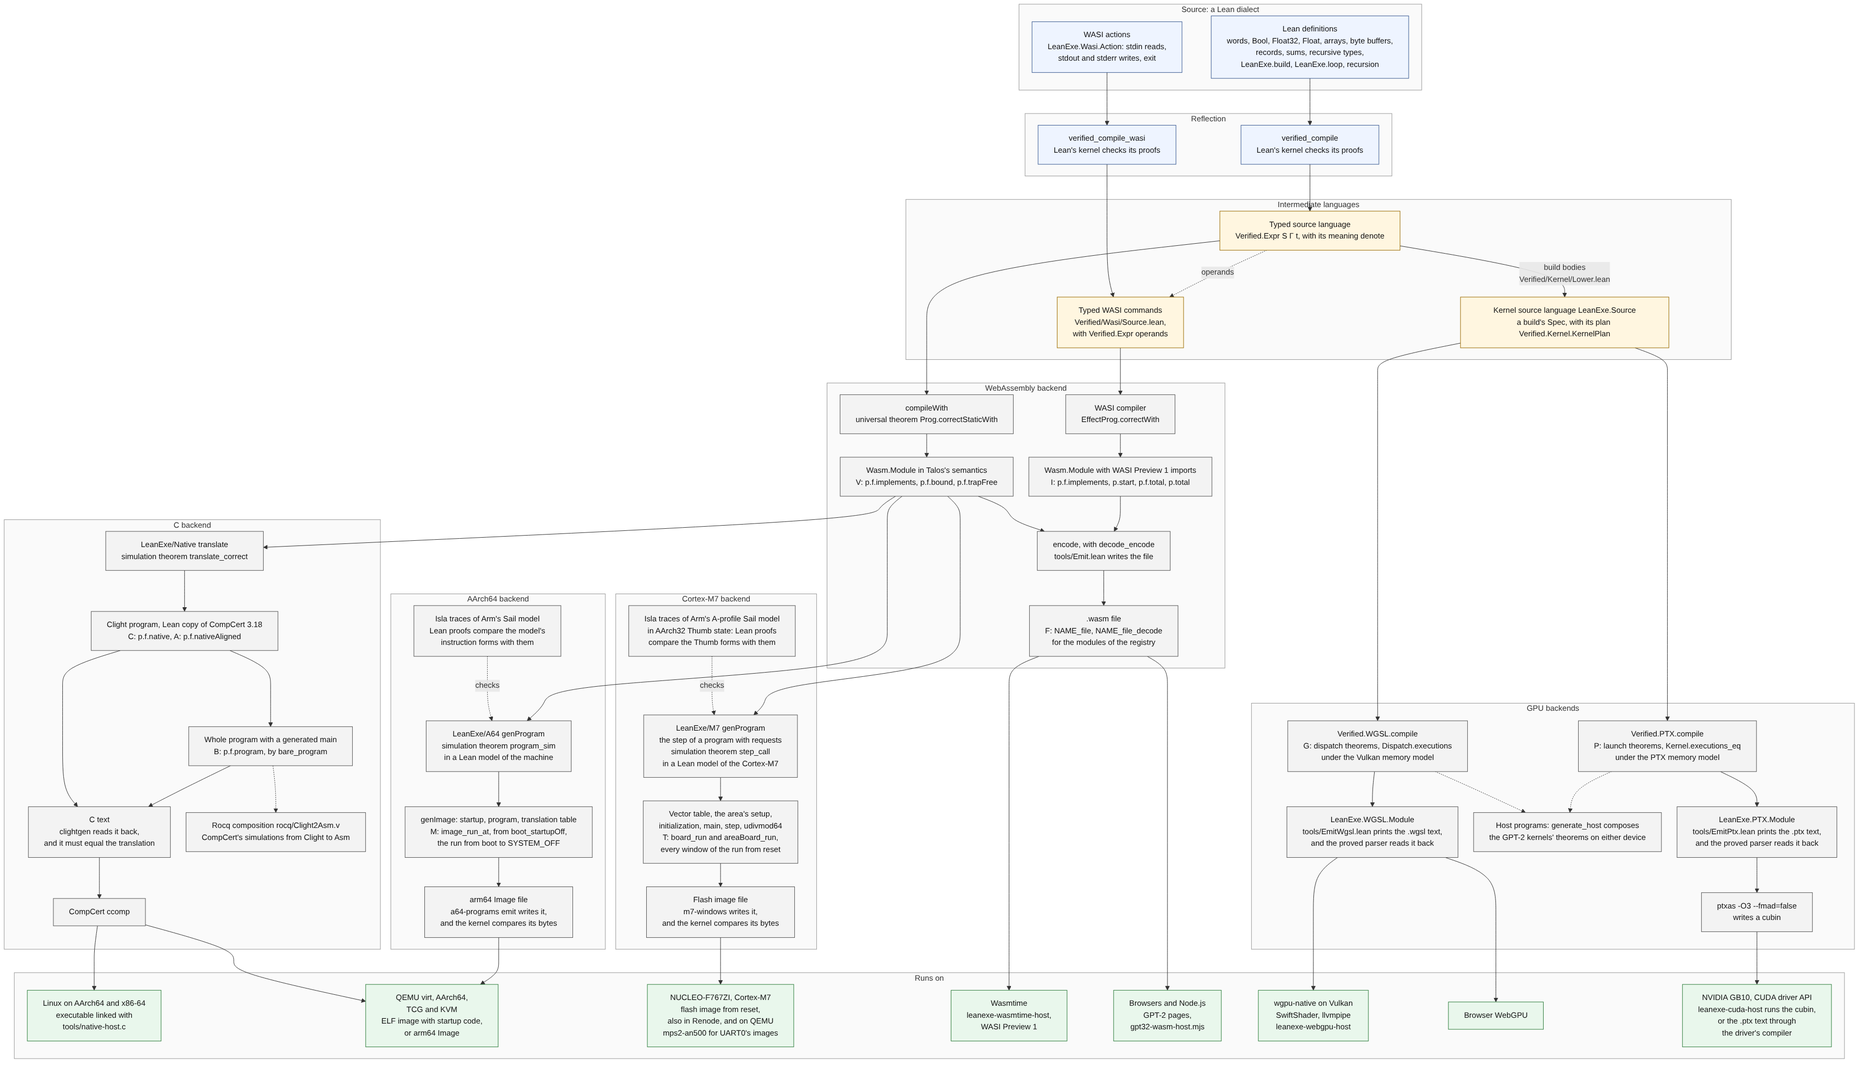
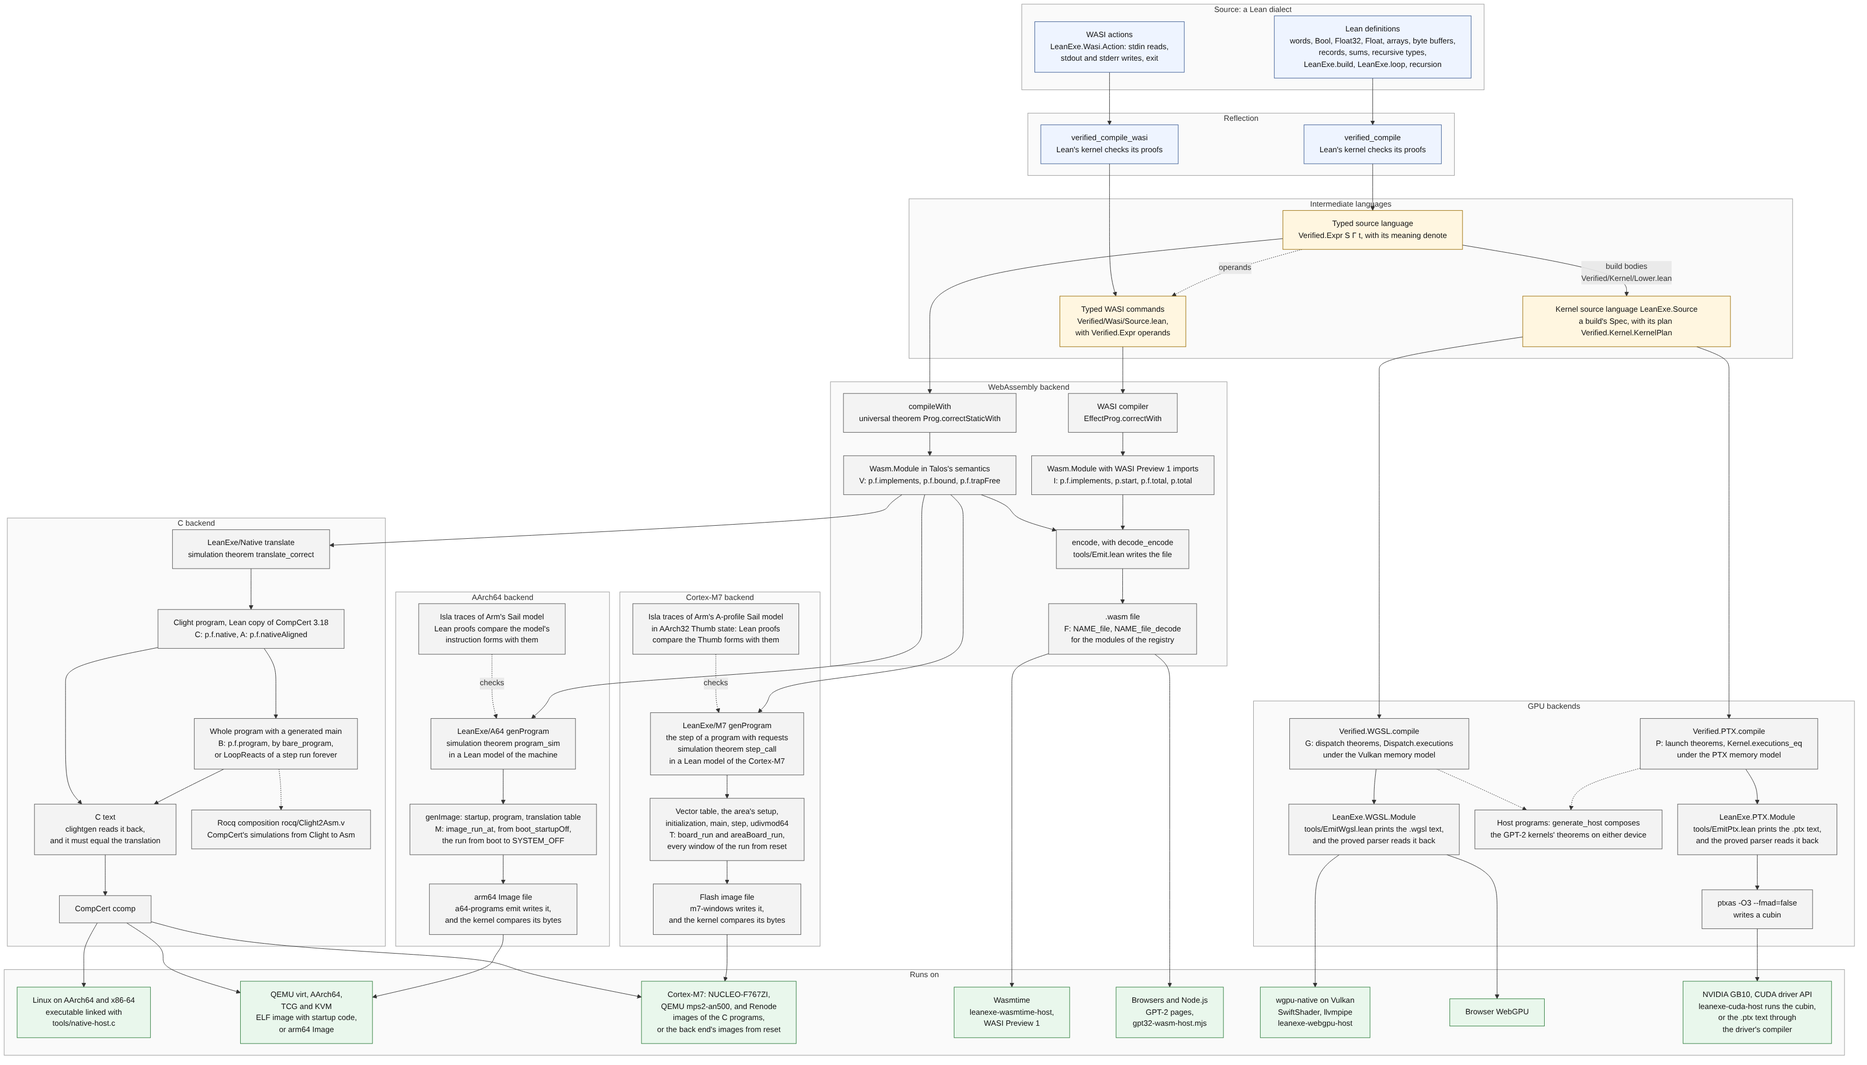
Cover the C path's Cortex-M7 programs and SHA-256 forms

diff --git a/README.md b/README.md
@@ -6,7 +6,7 @@ LeanExe compiles functions written in a restricted dialect of Lean to WebAssembl
 
 `verified_compile` reflects a Lean definition into a typed intermediate language, and each backend produces code together with a theorem that the code computes the definition's result.  The theorems hold in Talos's WebAssembly semantics, in the Lean copy of CompCert's Clight, in a Lean model of an AArch64 machine from boot, in a Lean model of a Cortex-M7 from reset, and under statements of the Vulkan and PTX memory models, and a Rocq proof carries the theorem of a bare-metal C program to CompCert's Asm.  The letters are the artifact codes of [the table below](#artifacts), and [the overview](#overview) shows the full toolchain.
 
-The compiler has one correctness theorem for every typed source program that it accepts.  The WebAssembly theorems hold in [Talos](https://github.com/cajal-technologies/talos)'s semantics, and an execution theorem may allow a trap at `unreachable`, which the theorem `p.f.trapFree` excludes under its allocation and call-depth premises.  The compiled modules also translate to a subset of [CompCert](https://compcert.org/compcert-C.html)'s C, with a theorem about each C function in the Lean copy of CompCert's Clight, and CompCert compiles the C for x86-64 and AArch64, under an operating system or on bare-metal AArch64.  A bare-metal C program has a theorem about the whole program, which a Rocq proof transfers to CompCert's Asm, and an executable under an operating system also depends on a C host that no theorem covers.  A separate back end compiles the same modules to AArch64 machine code without C and writes an arm64 Image whose theorem covers the whole run from boot, the startup included, in a Lean model of the machine, and Lean proofs compare the model's instruction forms with traces of Arm's specification from Isla, with the results of Arm's floating-point functions taken as equations with Talos's IEEE 754 functions.  Another back end without C compiles the step functions of programs with requests to Thumb-2 machine code for the NUCLEO-F767ZI board and writes a flash image whose theorem covers every window of the run from reset in a Lean model of the Cortex-M7.  Array builds compile to WGSL and PTX kernels with theorems under statements of the Vulkan and PTX memory models, and Lean actions with stdin, stdout, stderr, and exit compile to WASI Preview 1 modules.
+The compiler has one correctness theorem for every typed source program that it accepts.  The WebAssembly theorems hold in [Talos](https://github.com/cajal-technologies/talos)'s semantics, and an execution theorem may allow a trap at `unreachable`, which the theorem `p.f.trapFree` excludes under its allocation and call-depth premises.  The compiled modules also translate to a subset of [CompCert](https://compcert.org/compcert-C.html)'s C, with a theorem about each C function in the Lean copy of CompCert's Clight, and CompCert compiles the C for x86-64 and AArch64 under an operating system, for bare-metal AArch64, and for the Cortex-M7 of QEMU's `mps2-an500` and of the NUCLEO-F767ZI board.  A bare-metal C program has a theorem about the whole program, which a Rocq proof transfers to CompCert's Asm: a termination with the result's bytes or a trap's status, or a loop that runs a step function forever with a stated trace in each window, the form of every Cortex-M7 program with a theorem.  An executable under an operating system also depends on a C host that no theorem covers.  A separate back end compiles the same modules to AArch64 machine code without C and writes an arm64 Image whose theorem covers the whole run from boot, the startup included, in a Lean model of the machine, and Lean proofs compare the model's instruction forms with traces of Arm's specification from Isla, with the results of Arm's floating-point functions taken as equations with Talos's IEEE 754 functions.  Another back end without C compiles the step functions of programs with requests to Thumb-2 machine code for the NUCLEO-F767ZI board and writes a flash image whose theorem covers every window of the run from reset in a Lean model of the Cortex-M7.  Array builds compile to WGSL and PTX kernels with theorems under statements of the Vulkan and PTX memory models, and Lean actions with stdin, stdout, stderr, and exit compile to WASI Preview 1 modules.
 
 ## Background
 
@@ -45,7 +45,7 @@ Here are some of the demos in this repo:
 - [Running sums](Demos/RunningSum/README.md): WASI programs that read numbers from stdin and print cumulative totals, with proofs of canonical output and eventual exit.  [The binary64 version](Demos/RunningSumFp/README.md) composes proved parsing, IEEE 754 addition, and printing.
 - [Energy authorizer](Demos/Energy/README.md): decides whether a gateway may send proposed battery power limits to the inverter of a solar-and-battery site for one window of time.  `authorize_sound` proves that, under accepted limits, every trajectory that the model admits keeps the site's energy and grid limits or stays no further outside them than a return to the inverter's fallback mode would, and `energy_authorize` transfers the decision to the module's bytes.  Its gateway [ran a simulated day on a NUCLEO-F767ZI board](Demos/Energy/README.md#a-day-on-a-nucleo-f767zi), through CompCert and through [the Cortex-M7 back end](docs/m7-bare-metal.md), whose image has a theorem from reset, with output records equal to native Lean's in both runs.
 - [Order book](Demos/OrderBook/README.md): a central limit order book for one instrument, with price-time matching of limit, market, post-only, cancel, and reduce commands and self-trade prevention.  `run_eq` proves that the array program computes the list specification of its English requirements, and `run_call` transfers the proof to the module's `run` export.  A WASI process runs the book over command records on stdin, and `initial_terminates` proves that its module writes exactly the specification's event records to stdout and exits.
-- [SHA-256](#a-worked-example-sha-256): from a transcription of FIPS 180-4 to WebAssembly, C, and a bare-metal AArch64 image whose whole-program theorem a Rocq proof transfers to CompCert's Asm.
+- [SHA-256](#a-worked-example-sha-256): from a transcription of FIPS 180-4 to WebAssembly, C, and a bare-metal AArch64 image whose whole-program theorem a Rocq proof transfers to CompCert's Asm.  An [arm64 Image](#aarch64-images) of `shaCheck`, a wrapper of the library's `sha256With`, writes the digest of `abc`, with a theorem from boot, and [a Cortex-M7 step](#cortex-m7-images) built on the library's `compress` answers each block of 64 bytes on the NUCLEO-F767ZI, with `sha_board`, which states that the answers begin the FIPS 180-4 digests of the prefixes of the blocks read.
 - [CIC decimation filter](Library/Numerics/Filters/Cic/README.md): a cascaded integrator–comb filter whose AArch64 bare-metal Image, from [the back end that compiles WebAssembly to AArch64 directly](docs/a64-bare-metal.md), has `cic_outputs`: in the model of the boot machine, the Image writes to the UART the filter's outputs over ℤ, as its specification defines them, on a fixed table of 64 samples.
 - [Elementary and special functions](index.md#6-elementary-and-special-functions): binary64 implementations with proved accuracy bounds, and a software [fused multiply-add](Library/Numerics/Arithmetic/Fma/README.md) proved equal to IEEE 754's fusedMultiplyAdd for all operands.
 
@@ -68,7 +68,7 @@ Each artifact has a code, which [the algorithm index](index.md) uses to list the
 | I | WASI Preview 1 module, callable or command | `verified_compile_wasi`, and `tools/Emit.lean` writes the file | Callable `p.f.implements`, command `p.start`, and the conditional `p.f.total` and `p.total`: the exports perform the actions' ordered effects with the same results and terminal outcomes, in Talos's semantics with the modeled WASI host | Wasmtime's Preview 1, through `leanexe-wasmtime-host run` for a command and `--wasi call` for a callable export | [Running sum](Demos/RunningSum/README.md), [floating-point running sum](Demos/RunningSumFp/README.md), and [the stdio example](Verified/Examples/WasiStdio.lean) |
 | C | C file and its native executable | `native-verified build MODULE CONSTANT NAME DIR` writes `NAME.c` and `NAME_glue.c`, has `clightgen` read the C back, compares that Clight with the translation, and compiles `NAME.o` with `ccomp` only when they agree, and `ccomp` links the object with [the C host](tools/native-host.c) | `p.f.native`, stated as `NativeImpl`, `NativeTablesImpl`, or `NativeStaticImpl`: the C function terminates with the words of the Lean result or, when the function may abort, with a trap code, in the Lean copy of Clight | Linux on AArch64 and on x86-64 | `verified_compile` modules of the registry, [packed byte values](Verified/Examples/Bytes.lean), and [byte literals](Verified/Examples/Literals.lean) |
 | A | C file without the alignment test | `native-verified build --aligned`, which refuses with status 4 a module whose theorems do not cover that translation | `p.f.nativeAligned`, stated as `NativeAlignedImpl` or `NativeTablesAlignedImpl`, from an aligned input, in the Lean copy of Clight | Linux on AArch64 and on x86-64 | [SHA-256](Library/Hashing/Sha256/Compiled.lean), [SHA-3](Library/Hashing/Sha3/Compiled.lean), [CRC](Library/Hashing/Crc/Compiled.lean), [insertion sort](Library/Sorting/Insertion/Compiled.lean), [Euler solvers](Demos/Euler/Verified.lean), and [binary32 GPT-2](Demos/Gpt32/Verified.lean) |
-| B | Bare-metal AArch64 image | `native-bare emit` or `emit-in` writes the translation with a generated `main`, `native-bare check` or `check-in` compares the Clight of `clightgen` with the whole program, and [the bare-metal build](tools/baremetal/build.sh) links it with the startup code | `p.f.program`, which `bare_program` proves, and `sha256_input`: the whole program terminates with the stores of the result's bytes to the UART, in the Lean copy of Clight, and [the Rocq composition](rocq/Clight2Asm.v) transfers such a termination to Asm.  `p.f.program` also allows the code of `unreachable` with no output when the entry may abort, and `sha256_input` allows it when `alloc` traps. | QEMU's `virt` machine under TCG and under KVM | [GCD](tests/TestSupport/Bare/Gcd.lean), [CRC-32, SHA-256, Euler, and a deep recursion](tests/TestSupport/Bare/Theorems.lean), and [SHA-256 of a loaded message](tests/TestSupport/Bare/Input.lean) |
+| B | Bare-metal image | `native-bare emit` or `emit-in` writes the translation with a generated `main`, `native-bare check` or `check-in` compares the Clight of `clightgen` with the whole program, and [the bare-metal build](tools/baremetal/build.sh) links it with the startup code.  For the Cortex-M7, `native-bare emit-ctl`, `emit-req`, or `emit-usart3` writes a program that runs a step forever, and [the ARMv7-M build](tools/baremetal/armv7m/build.sh) links it with the startup code and the board's code | `p.f.program`, which `bare_program` proves, and `sha256_input`: the whole program terminates with the stores of the result's bytes to the UART, in the Lean copy of Clight, and [the Rocq composition](rocq/Clight2Asm.v) transfers such a termination to Asm.  `p.f.program` also allows the code of `unreachable` with no output when the entry may abort, and `sha256_input` allows it when `alloc` traps. | QEMU's `virt` machine under TCG and under KVM, and, for programs that run a step forever, whose theorems, such as `echo_usart3_program`, state the trace of every window in the Lean copy of Clight, the Cortex-M7: QEMU's `mps2-an500` under TCG runs the filter, the echo, the deadline program, the records program, and the energy controller's program, and the NUCLEO-F767ZI and Renode's model of it run the echo and the energy controller's program | [GCD](tests/TestSupport/Bare/Gcd.lean), [CRC-32, SHA-256, Euler, and a deep recursion](tests/TestSupport/Bare/Theorems.lean), and [SHA-256 of a loaded message](tests/TestSupport/Bare/Input.lean) |
 | M | AArch64 Image of the direct back end | `a64-programs emit` writes `NAME.img`, the bytes that `genImage` gives for the module, the entry, and the arguments: the arm64 header, the startup, the program's code, and the translation table | Image theorems from `image_run_at`, such as `TestSupport.A64.ImageFiles.gcd`: from a boot state whose memory holds the file's bytes, which the kernel compares with `genImage`'s output, at a base in the RAM GiB that is a multiple of 4096, the machine reaches PSCI SYSTEM_OFF after writing to the UART the encoding of the Lean function's value and the status 0, or a trap's status alone where the theorem allows one, in the Lean model of the boot machine | QEMU's `virt` machine under TCG and under KVM | [GCD by a loop and by recursion, CRC-32, SHA-256, a deep recursion, and the CIC filter](tests/TestSupport/A64/ImageFiles.lean) |
 | T | Flash image of the Cortex-M7 back end | `m7-windows board`, `gateway-board`, `crc-board`, or `sha-board` writes `NAME.bin`, the bytes of the vector table, the setup of the area of a program with linear memory, the initialization, `main`, the step's functions, and `udivmod64` that the generator gives for the module, the step, and the initial state | `echo_board`, `gw_board`, `gw_board_prefix`, `crc_board`, `crc_board_prefix`, and `sha_board`: from every state that reset gives while the flash holds the file's bytes, which the kernel compares with the generator's output, the model of the Cortex-M7 performs the initialization's accesses and then those of every window of the step, and never stops, the gateway's bytes written to `USART_TDR` begin its output records, the CRC-32 step's begin the low bytes of the CRC-32 of the bytes read, and the SHA-256 step's, for fewer than 2^62 windows, begin the SHA-256 digests of FIPS 180-4 of the prefixes of the blocks of 64 bytes read | The NUCLEO-F767ZI, and QEMU's `mps2-an500` for the images of `echo_qemu`, `gw_qemu`, `crc_qemu`, and `sha_qemu` | [The echo](tests/TestSupport/M7/NucleoFile.lean), [the energy controller's gateway](tests/TestSupport/M7/GwBoardFile.lean), [the CRC-32 step](tests/TestSupport/M7/CrcBoardFile.lean), and [the SHA-256 step](tests/TestSupport/M7/ShaBoardFile.lean) |
 | G | WGSL kernel | [`tools/EmitWgsl.lean`](tools/EmitWgsl.lean) prints the kernel after checking that the parser reads the text back | Dispatch theorem, such as `scale32_dispatch` or `gpu.dispatch_eq`: the dispatch writes the Lean function's result and is race-free, in the WGSL device model with strict binary32 arithmetic, and `Dispatch.executions` gives the same output words for every consistent execution under a statement of the Vulkan memory model | wgpu-native through `build/tools/leanexe-webgpu-host` on SwiftShader and llvmpipe, and WebGPU in a browser | [Binary32 example](Examples/Binary32/README.md), [binary32 GPT-2](Demos/Gpt32/README.md), and [the verified kernel examples](Verified/Examples/Wgsl.lean) |

diff --git a/index.md b/index.md
@@ -15,7 +15,7 @@ The Forms column lists a row's codes in the order of the key below.  When an app
 | F | Emitted `.wasm` file with a file theorem. |
 | C | C file and its native executable, with `p.f.native`, which the native drivers build and run. |
 | A | C file without the alignment test, with `p.f.nativeAligned`. |
-| B | Bare-metal AArch64 image with a whole-program theorem. |
+| B | Bare-metal image with a whole-program theorem. |
 | M | AArch64 Image of the direct back end, with a theorem about its run from boot. |
 | T | Flash image of the Cortex-M7 back end, with theorems about its run from reset. |
 | I | WASI Preview 1 module with WASI theorems. |
@@ -315,7 +315,7 @@ The SHA-2 specification is a literate transcription of FIPS 180-4, copied with i
 
 | Entry | Forms | Implementation | Behavior | Theorems, claims, and limits |
 |---|---|---|---|---|
-| `sha256` | V S F C A B M | [SHA-256 and SHA-224](Library/Hashing/Sha256/README.md) | 32-byte digest of FIPS 180-4 §6.2.  The program holds each 32-bit word in the low half of a `UInt64`, masking before shifts to the right and rotations. | [`compiled.sha256.implements`](Library/Hashing/Sha256/Compiled.lean).  [`sha256_call`](Library/Hashing/Sha256/Bytes.lean): the digest, from [`sha256_spec`](Library/Hashing/Sha256/Proof.lean), for messages below `2^61` bytes.  [`sha256_input`](tests/TestSupport/Bare/Input.lean): the bare-metal program writes the digest of a loaded message, for messages of at most `2^24 - 8` bytes, or ends with the code of `unreachable` and no output when `alloc` traps, and [`shaCompiled.shaCheck.program`](tests/TestSupport/Bare/Theorems.lean) that of `abc`.  [`TestSupport.A64.ImageFiles.sha256`](tests/TestSupport/A64/ImageFiles.lean): the AArch64 Image writes the digest of `abc`. |
+| `sha256` | V S F C A B M T | [SHA-256 and SHA-224](Library/Hashing/Sha256/README.md) | 32-byte digest of FIPS 180-4 §6.2.  The program holds each 32-bit word in the low half of a `UInt64`, masking before shifts to the right and rotations. | [`compiled.sha256.implements`](Library/Hashing/Sha256/Compiled.lean).  [`sha256_call`](Library/Hashing/Sha256/Bytes.lean): the digest, from [`sha256_spec`](Library/Hashing/Sha256/Proof.lean), for messages below `2^61` bytes.  [`sha256_input`](tests/TestSupport/Bare/Input.lean): the bare-metal program writes the digest of a loaded message, for messages of at most `2^24 - 8` bytes, or ends with the code of `unreachable` and no output when `alloc` traps, and [`shaCompiled.shaCheck.program`](tests/TestSupport/Bare/Theorems.lean) that of `abc`.  [`TestSupport.A64.ImageFiles.sha256`](tests/TestSupport/A64/ImageFiles.lean): the AArch64 Image writes the digest of `abc`.  [`sha_board`](tests/TestSupport/M7/ShaBoardFile.lean): the bytes that the Cortex-M7 image writes on the NUCLEO-F767ZI begin the digests of the prefixes of the blocks of 64 bytes that it reads, for fewer than 2^62 windows. |
 | `sha224` | V S F C A | [SHA-256 and SHA-224](Library/Hashing/Sha256/README.md) | 28-byte digest of §6.3, in four words whose last four bytes are zero. | [`compiled.sha224.implements`](Library/Hashing/Sha256/Compiled.lean).  [`sha224_call`](Library/Hashing/Sha256/Bytes.lean): the digest, from [`sha224_spec`](Library/Hashing/Sha256/Proof.lean), for messages below `2^61` bytes. |
 | `sha512` | V S F C | [SHA-512 family](Library/Hashing/Sha512/README.md) | 64-byte digest of FIPS 180-4 §6.4.  The program reads each padded word from the packed message and keeps the message schedule in a window of sixteen words. | [`compiled.sha512.implements`](Library/Hashing/Sha512/Compiled.lean).  [`sha512_call`](Library/Hashing/Sha512/Bytes.lean): the digest, from [`sha512_spec`](Library/Hashing/Sha512/Proof.lean), for messages below `2^61` bytes. |
 | `sha384` | V S F C | [SHA-512 family](Library/Hashing/Sha512/README.md) | 48-byte digest of §6.5, from the initial value of §5.3.4. | [`compiled.sha384.implements`](Library/Hashing/Sha512/Compiled.lean).  [`sha384_call`](Library/Hashing/Sha512/Bytes.lean): the digest, from [`sha384_spec`](Library/Hashing/Sha512/Proof.lean), for messages below `2^61` bytes. |
@@ -331,7 +331,7 @@ The SHA-2 specification is a literate transcription of FIPS 180-4, copied with i
 | `siphash24`, `siphash13` | V S F C | [SipHash](Library/Hashing/SipHash/README.md) | SipHash-2-4 and SipHash-1-3 of a 128-bit key given as two words.  The program reads the message words in place and forms the last word from the remaining bytes and `n mod 256`. | [`compiled.siphash24.implements`](Library/Hashing/SipHash/Compiled.lean) and `compiled.siphash13.implements`.  [`siphash24_call`](Library/Hashing/SipHash/Bytes.lean) and `siphash13_call`: the hashes, from [`siphash24_spec`](Library/Hashing/SipHash/Proof.lean), for messages of any length. |
 | `xxh64` | V S F C | [XXH64](Library/Hashing/XxHash64/README.md) | XXH64 with a 64-bit seed.  The program reads the stripes, the lanes of 8 bytes, the lane of 4 bytes, and the single bytes in place. | [`compiled.xxh64.implements`](Library/Hashing/XxHash64/Compiled.lean).  [`xxh64_call`](Library/Hashing/XxHash64/Bytes.lean): the hash, from [`xxh64_eq`](Library/Hashing/XxHash64/Proof.lean), for messages of any length. |
 
-The SHA-256, SHA-3, and CRC modules set `verified_compile.alignedNative`, and the native benchmark times one export of each.  The bare-metal programs on constants compute CRC-32 and SHA-256 with wrappers in [test support](tests/TestSupport/Bare/Programs.lean) over the library's `crcWith` and `sha256With`, and the program with input calls the export `sha256` itself.  `sha256_input` states the output as the bytes of `SHS.SHA256.Impl.sha256`, which `SHS.Equiv.SHA256.sha256_correct` in [the SHA-256 equivalence](Library/Hashing/Sha2/Equiv/SHA256/Main.lean) equates with the digest of the transcription of FIPS 180-4.
+The SHA-256, SHA-3, and CRC modules set `verified_compile.alignedNative`, and the native benchmark times one export of each.  The bare-metal programs on constants compute CRC-32 and SHA-256 with wrappers in [test support](tests/TestSupport/Bare/Programs.lean) over the library's `crcWith` and `sha256With`, and the program with input calls the export `sha256` itself.  The SHA-256 step of the Cortex-M7, `shaUsart3Tick` of [its program](tests/TestSupport/M7/Sha.lean), compiles the library's `compress`, `roundStep`, and `advance` with its own framing and padding of blocks.  The CRC-32 step `crcUsart3Tick` of [its program](tests/TestSupport/M7/Crc.lean) compiles no library function: it inlines the library's `byteStep` with `crc32Table`, and [`crc_board_prefix`](tests/TestSupport/M7/CrcBoardFile.lean) states that its answers begin the low bytes of the CRC-32 of the prefixes of the bytes that it reads.  `sha256_input` states the output as the bytes of `SHS.SHA256.Impl.sha256`, which `SHS.Equiv.SHA256.sha256_correct` in [the SHA-256 equivalence](Library/Hashing/Sha2/Equiv/SHA256/Main.lean) equates with the digest of the transcription of FIPS 180-4.
 
 ## 12. Regular expressions and string matching
 
